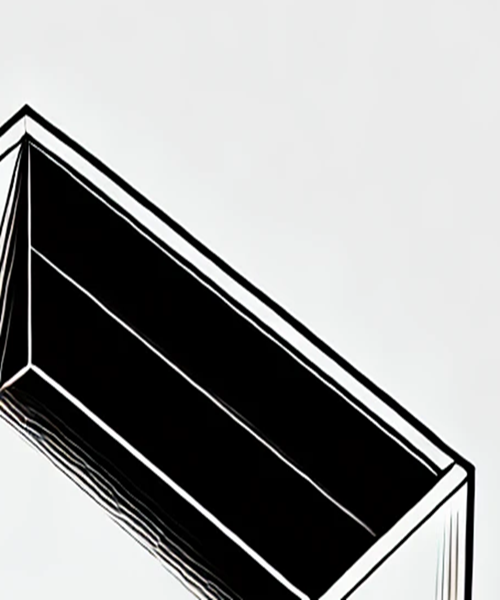
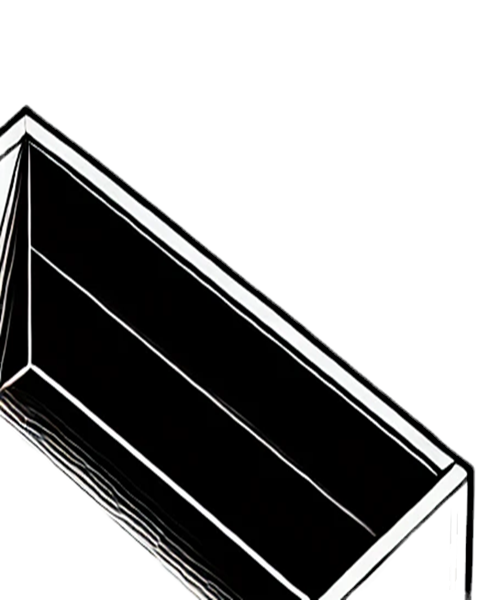
Adjust size on the skills component

diff --git a/src/app/components/FrontendSkills.tsx b/src/app/components/FrontendSkills.tsx
@@ -14,45 +14,36 @@ function FrontendSkills() {
         width={100}
         height={100}
       />
-      <motion.div
-        initial={{ scale: 0, x: 0, y: 100 }}
-        animate={{ scale: 1.3, x: 100, y: -200 }}
+      <motion.img
+        initial={{ scale: 0.3, x: 0, y: 0 }}
+        animate={{ scale: 1.3, x: 160, y: -400 }}
         transition={{ repeat: Infinity, duration: 3, ease: "easeInOut" }}
-      >
-        <Image
-          className={`${styles.icon} ${styles.react}`}
-          src={"react.svg"}
-          alt="React"
-          width={50}
-          height={50}
-        />
-      </motion.div>
-      <motion.div
-        initial={{ scale: 0, x: 0, y: 100 }}
-        animate={{ scale: 1.2, x: 200, y: -120 }}
+        className={`${styles.icon} ${styles.react}`}
+        src={"react.svg"}
+        alt="React"
+        width={50}
+        height={50}
+      ></motion.img>
+      <motion.img
+        initial={{ scale: 0.3, x: 0, y: 0 }}
+        animate={{ scale: 1.3, x: 230, y: -300 }}
         transition={{ repeat: Infinity, duration: 3, ease: "easeInOut" }}
-      >
-        <Image
-          className={`${styles.icon} ${styles.nextjs}`}
-          src={"nextjs.svg"}
-          alt="Next.js"
-          width={50}
-          height={50}
-        />
-      </motion.div>
-      <motion.div
-        initial={{ scale: 0, x: 0, y: 100 }}
-        animate={{ scale: 1.2, x: 300, y: -80 }}
+        className={`${styles.icon} ${styles.nextjs}`}
+        src={"nextjs.svg"}
+        alt="Next.js"
+        width={50}
+        height={50}
+      ></motion.img>
+      <motion.img
+        initial={{ scale: 0.3, x: 0, y: 0 }}
+        animate={{ scale: 1.3, x: 280, y: -200 }}
         transition={{ repeat: Infinity, duration: 3, ease: "easeInOut" }}
-      >
-        <Image
-          className={`${styles.icon} ${styles.sass}`}
-          src={"sass.svg"}
-          alt="SASS"
-          width={50}
-          height={50}
-        />
-      </motion.div>
+        className={`${styles.icon} ${styles.sass}`}
+        src={"sass.svg"}
+        alt="SASS"
+        width={50}
+        height={50}
+      ></motion.img>
     </div>
   );
 }

diff --git a/src/app/components/Skills.module.scss b/src/app/components/Skills.module.scss
@@ -2,6 +2,7 @@
   height: 100vh;
   border: 10px solid black;
   position: relative;
+  overflow: hidden;
 
   .scrolling {
     width: 80px;
@@ -16,8 +17,9 @@
     cursor: pointer;
 
     position: absolute;
-    bottom: 20%;
-    left: 45%;
+    bottom: 10%;
+    left: 50%;
+    transform: translate(-50%, 0);
 
     &:hover {
       opacity: 0.8;
@@ -25,8 +27,8 @@
 
     &:active {
       position: absolute;
-      bottom: 19%;
-      left: 45.5%;
+      bottom: 9%;
+      left: 50.5%;
     }
   }
 }
@@ -96,10 +98,10 @@
       width: 55px;
       height: 55px;
       font-size: 20px;
-      bottom: 8%;
+      bottom: 4%;
 
       &:active {
-        bottom: 7.5%;
+        bottom: 3.5%;
       }
     }
   }

diff --git a/src/app/components/FrontendSkills.module.scss b/src/app/components/FrontendSkills.module.scss
@@ -1,12 +1,11 @@
 .img {
-  width: 100%;
-  height: 100%;
+  width: 33.3vw;
+  height: 100vh;
 }
 
 .container {
   position: relative;
   display: flex;
-  flex-direction: row-reverse;
   width: 100%;
   height: auto;
 
@@ -14,21 +13,15 @@
     position: relative;
   }
 
-  .react {
+  .icon {
     position: absolute;
-    bottom: 40%;
-    left: 40%;
+    bottom: 30%
   }
+}
 
-  .nextjs {
-    position: absolute;
-    bottom: 30%;
-    left: 60%;
-  }
-
-  .sass {
-    position: absolute;
-    bottom: 20%;
-    left: 80%;
+@media only screen and (max-width: 700px) {
+  .img {
+    width: 100vw;
+    height: auto;
   }
 }

diff --git a/src/app/components/OtherSkills.module.scss b/src/app/components/OtherSkills.module.scss
@@ -1,22 +1,38 @@
 .img {
-  width: 100%;
-  height: 100%;
+  width: 33.3vw;
+  height: 100vh;
 }
 
 .container {
-  width: 100%;
+  width: 33.3vw;
   position: relative;
 
   .js {
     position: absolute;
-    top: 10%;
-    left: 50%;
-
+    bottom: 40%;
+    right: 20%;
   }
 
   .ts {
     position: absolute;
-    top: 20%;
+    bottom: 50%;
     left: 20%;
+  }
+}
+
+@media only screen and (max-width: 700px) {
+  .img {
+    width: 100vw;
+    height: auto;
+  }
+
+  .js {
+    bottom: 20%;
+    right: 10%;
+  }
+
+  .ts {
+    bottom: 30%;
+    left: 30%;
   }
 }

diff --git a/src/app/components/BackendSkills.module.scss b/src/app/components/BackendSkills.module.scss
@@ -1,6 +1,6 @@
 .img {
-  width: 100%;
-  height: 100%;
+  width: 33.3vw;
+  height: 100vh;
 }
 
 .container {
@@ -23,5 +23,12 @@
     position: absolute;
     top: 20%;
     left: 60%;
+  }
+}
+
+@media only screen and (max-width: 700px) {
+  .img {
+    width: 100vw;
+    height: auto;
   }
 }

diff --git a/src/app/components/OtherSkills.tsx b/src/app/components/OtherSkills.tsx
@@ -11,7 +11,7 @@ function OtherSkills() {
     <div className={styles.container}>
       <Image
         className={styles.img}
-        src={"/box3.png"}
+        src={"/toy-box.png"}
         alt="Box3"
         width={100}
         height={100}

diff --git a/src/app/components/AboutMe.module.scss b/src/app/components/AboutMe.module.scss
@@ -28,8 +28,8 @@
 
     &:active {
       position: absolute;
-      bottom: 19%;
-      left: 45.5%;
+      bottom: 9%;
+      left: 50.5%;
     }
   }
 }

diff --git a/src/app/components/Home.module.scss b/src/app/components/Home.module.scss
@@ -27,8 +27,8 @@
 
     &:active {
       position: absolute;
-      bottom: 19%;
-      left: 45.5%;
+      bottom: 9%;
+      left: 50.5%;
     }
   }
 }
